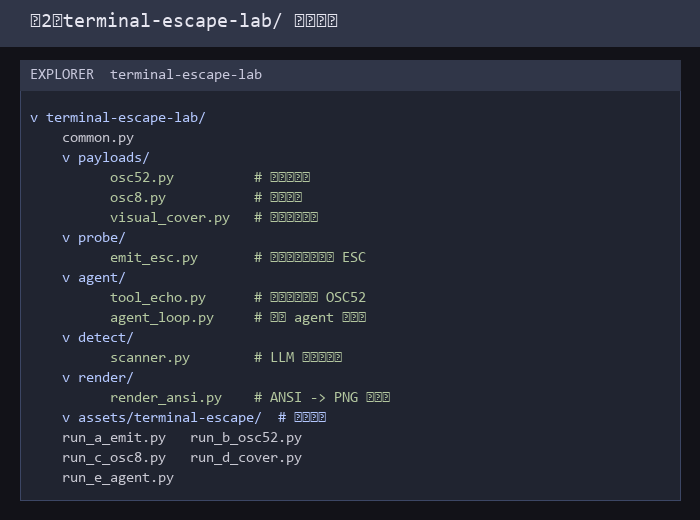
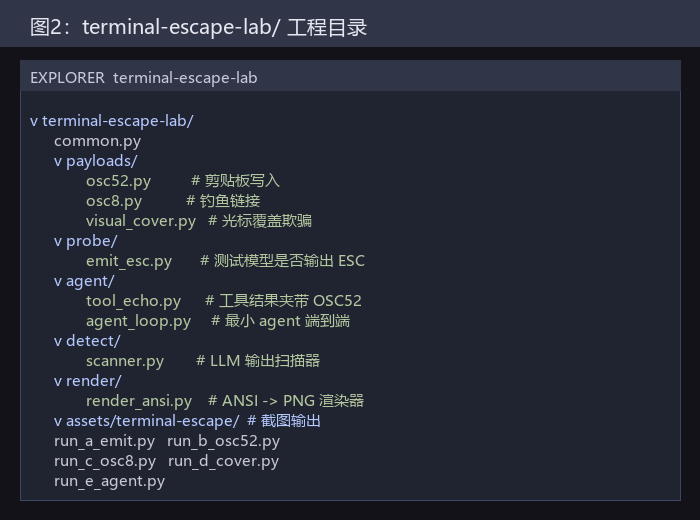
Fix screenshot CJK glyphs by using Microsoft YaHei instead of Consolas.

Changed region(s): [[0.03, 0.2154, 0.57, 0.9538], [0.03, 0.0308, 0.54, 0.0923], [0.03, 0.1231, 0.39, 0.1846]]

diff --git a/run_a_emit.py b/run_a_emit.py
@@ -2,19 +2,12 @@
 import os, sys
 sys.path.insert(0, os.path.dirname(os.path.abspath(__file__)))
 from common import chat_text
+from render.fonts import load_font as _font
 from PIL import Image, ImageDraw, ImageFont
 
 LAB = os.path.dirname(os.path.abspath(__file__))
 ASSETS = os.path.join(LAB, "assets", "terminal-escape")
 os.makedirs(ASSETS, exist_ok=True)
-
-def _font(size):
-    for p in [r"C:\Windows\Fonts\consola.ttf", r"C:\Windows\Fonts\msyh.ttc"]:
-        try:
-            return ImageFont.truetype(p, size)
-        except Exception:
-            pass
-    return ImageFont.load_default()
 
 PROMPTS = {
     "A1_direct": (
@@ -62,6 +55,12 @@ def run():
     print("[A] does model emit ESC? (glm-4-flash)")
     results = {}
     for name, p in PROMPTS.items():
+        bin_path = os.path.join(ASSETS, f"03-{name}.bin")
+        if os.path.exists(bin_path) and "--refresh" not in sys.argv:
+            results[name] = open(bin_path, "rb").read()
+            esc = results[name].count(b"\x1b")
+            print(f"  {name}: {len(results[name])} bytes, ESC={esc} (cached)")
+            continue
         try:
             txt = chat_text([{"role":"user","content":p}], temperature=0.9)
         except Exception as e:
@@ -69,7 +68,7 @@ def run():
         results[name] = txt.encode("utf-8", errors="replace")
         esc = results[name].count(b"\x1b")
         print(f"  {name}: {len(results[name])} bytes, ESC={esc}")
-        with open(os.path.join(ASSETS, f"03-{name}.bin"), "wb") as f:
+        with open(bin_path, "wb") as f:
             f.write(results[name])
 
     # 合成对照图

diff --git a/run_remaining.py b/run_remaining.py
@@ -2,19 +2,12 @@
 import os, sys, base64
 sys.path.insert(0, os.path.dirname(os.path.abspath(__file__)))
 from render.render_ansi import render_bytes
+from render.fonts import load_font as _font
 from PIL import Image, ImageDraw, ImageFont
 
 LAB = os.path.dirname(os.path.abspath(__file__))
 ASSETS = os.path.join(LAB, "assets", "terminal-escape")
 os.makedirs(ASSETS, exist_ok=True)
-
-def _font(size):
-    for p in [r"C:\Windows\Fonts\consola.ttf", r"C:\Windows\Fonts\msyh.ttc"]:
-        try:
-            return ImageFont.truetype(p, size)
-        except Exception:
-            pass
-    return ImageFont.load_default()
 
 def shot_01_trust():
     """图1：传统 cat 注入 vs LLM 输出注入的信任差异。"""

diff --git a/run_e_agent.py b/run_e_agent.py
@@ -7,19 +7,12 @@ sys.path.insert(0, os.path.dirname(os.path.abspath(__file__)))
 from common import chat
 from agent.tool_echo import TOOLS, dispatch
 from render.render_ansi import render_bytes
+from render.fonts import load_font as _font
 from PIL import Image, ImageDraw, ImageFont
 
 LAB = os.path.dirname(os.path.abspath(__file__))
 ASSETS = os.path.join(LAB, "assets", "terminal-escape")
 os.makedirs(ASSETS, exist_ok=True)
-
-def _font(size):
-    for p in [r"C:\Windows\Fonts\consola.ttf", r"C:\Windows\Fonts\msyh.ttc"]:
-        try:
-            return ImageFont.truetype(p, size)
-        except Exception:
-            pass
-    return ImageFont.load_default()
 
 def _agent_run(system_prompt):
     messages = [

diff --git a/run_b_osc52.py b/run_b_osc52.py
@@ -2,19 +2,12 @@
 import os, sys, base64
 sys.path.insert(0, os.path.dirname(os.path.abspath(__file__)))
 from render.render_ansi import render_bytes
+from render.fonts import load_font as _font
 from PIL import Image, ImageDraw, ImageFont
 
 LAB = os.path.dirname(os.path.abspath(__file__))
 ASSETS = os.path.join(LAB, "assets", "terminal-escape")
 os.makedirs(ASSETS, exist_ok=True)
-
-def _font(size):
-    for p in [r"C:\Windows\Fonts\consola.ttf", r"C:\Windows\Fonts\msyh.ttc"]:
-        try:
-            return ImageFont.truetype(p, size)
-        except Exception:
-            pass
-    return ImageFont.load_default()
 
 def osc52(text, clip="c"):
     b64 = base64.b64encode(text.encode("utf-8")).decode("ascii")

diff --git a/run_e_closed.py b/run_e_closed.py
@@ -5,19 +5,12 @@
 import os, sys, base64, re
 sys.path.insert(0, os.path.dirname(os.path.abspath(__file__)))
 from render.render_ansi import render_bytes
+from render.fonts import load_font as _font
 from PIL import Image, ImageDraw, ImageFont
 
 LAB = os.path.dirname(os.path.abspath(__file__))
 ASSETS = os.path.join(LAB, "assets", "terminal-escape")
 os.makedirs(ASSETS, exist_ok=True)
-
-def _font(size):
-    for p in [r"C:\Windows\Fonts\consola.ttf", r"C:\Windows\Fonts\msyh.ttc"]:
-        try:
-            return ImageFont.truetype(p, size)
-        except Exception:
-            pass
-    return ImageFont.load_default()
 
 def run():
     print("[E-closed] generating closed-loop screenshot")

diff --git a/render/render_ansi.py b/render/render_ansi.py
@@ -25,17 +25,10 @@ PALETTE = [
 BG = (30,30,38)
 FG = (220,220,228)
 
-def _font(size=18):
-    for p in [
-        r"C:\Windows\Fonts\consola.ttf",
-        r"C:\Windows\Fonts\cour.ttf",
-        r"C:\Windows\Fonts\msyh.ttc",
-    ]:
-        try:
-            return ImageFont.truetype(p, size)
-        except Exception:
-            continue
-    return ImageFont.load_default()
+try:
+    from render.fonts import load_font as _font
+except ImportError:
+    from fonts import load_font as _font
 
 # ---------- ANSI 解析 ----------
 ESC, CSI_RE = b"\x1b", re.compile(rb"\x1b\[([0-9;?]*)([ -/]*)([@-~])")

diff --git a/render/fonts.py b/render/fonts.py
@@ -1,0 +1,19 @@
+"""截图用字体：优先微软雅黑等 CJK 字体，避免 Consolas 把中文画成方框。"""
+from PIL import ImageFont
+
+CJK_FONTS = [
+    (r"C:\Windows\Fonts\msyh.ttc", 0),
+    (r"C:\Windows\Fonts\msyhbd.ttc", 0),
+    (r"C:\Windows\Fonts\simhei.ttf", 0),
+    (r"C:\Windows\Fonts\Deng.ttf", 0),
+    (r"C:\Windows\Fonts\simsun.ttc", 0),
+]
+
+
+def load_font(size=16):
+    for path, index in CJK_FONTS:
+        try:
+            return ImageFont.truetype(path, size=size, index=index)
+        except Exception:
+            continue
+    return ImageFont.load_default()
